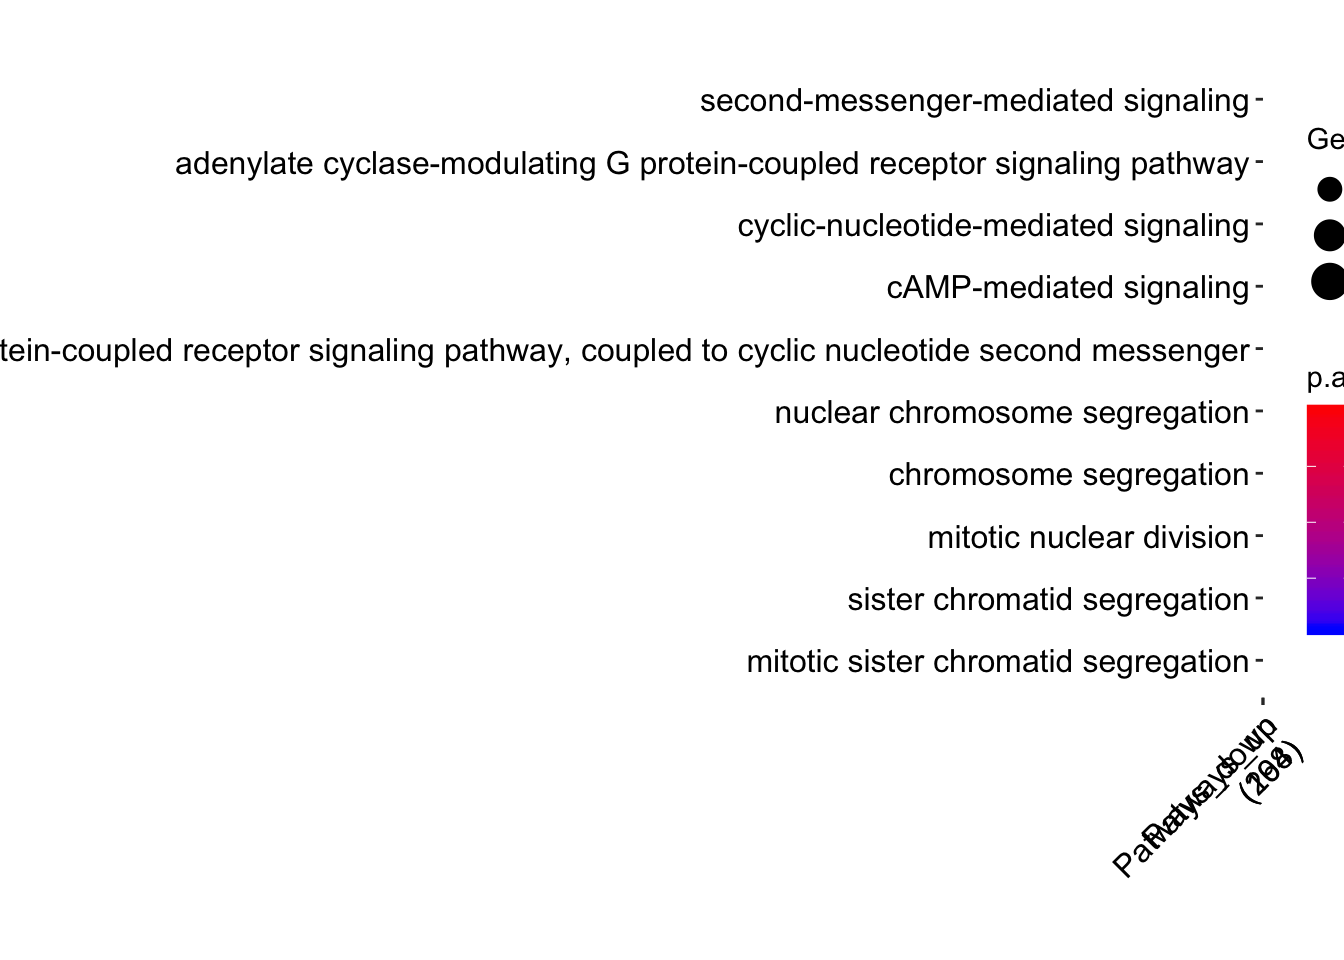
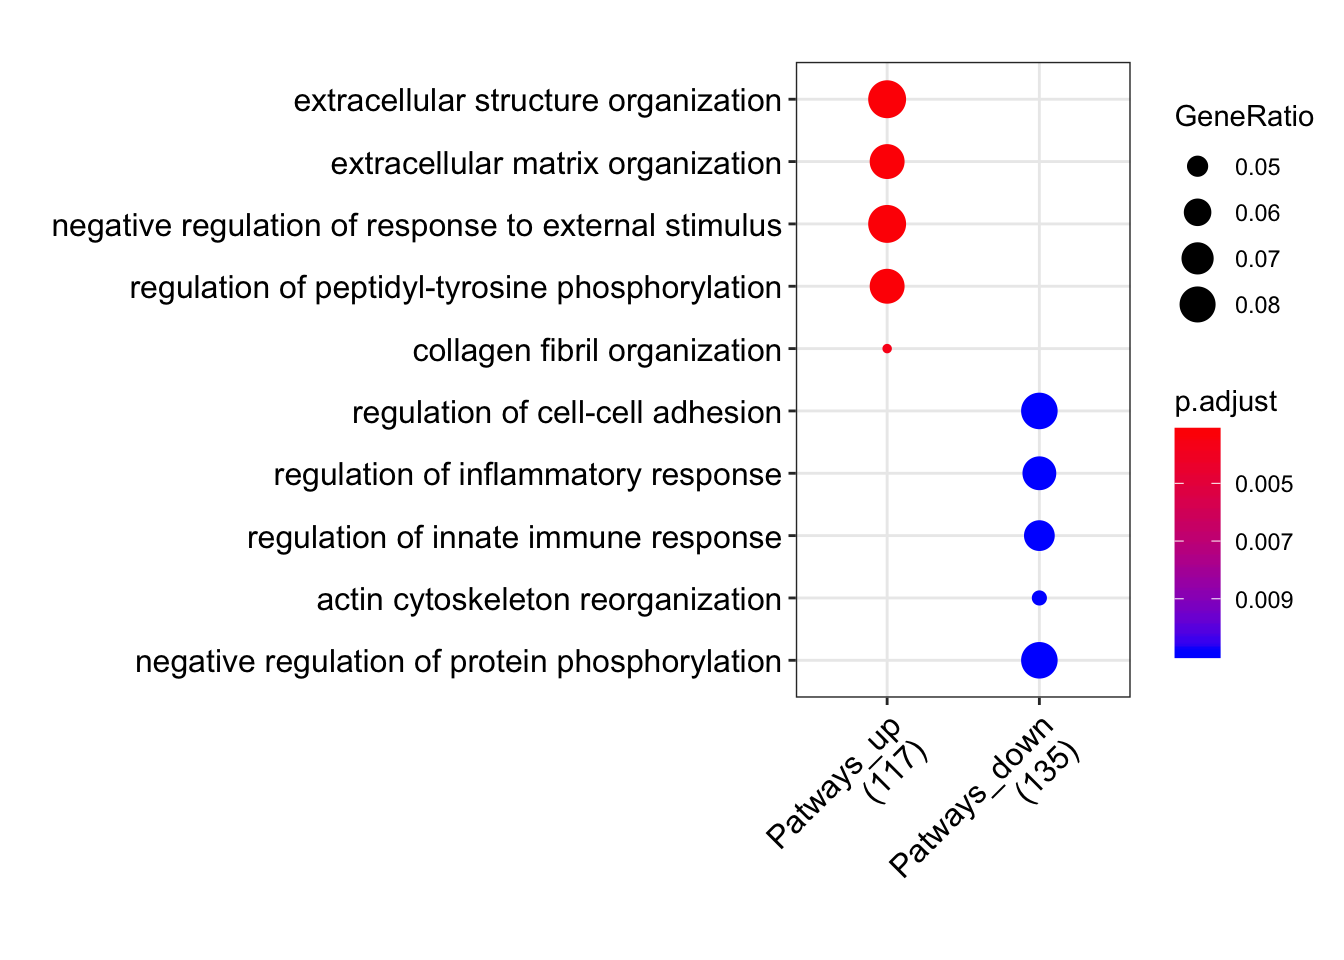
Updated rmd so all figures are readable

diff --git a/Bulk_pathway_analysis.html b/Bulk_pathway_analysis.html
@@ -381,8 +381,8 @@ div.tocify {
 <span class="kw">library</span>(org.Mm.eg.db)
 <span class="kw">library</span>(gplots)
 <span class="kw">library</span>(ggplot2)</code></pre></div>
-<div id="read-in-the-data-and-remove-sampels-that-were-irregular-according-to-correlation" class="section level2">
-<h2>Read in the data and remove sampels that were irregular according to correlation:</h2>
+<div id="read-in-the-data-and-remove-sampels-that-were-irregular-according-to-correlation" class="section level1">
+<h1>1 Read in the data and remove sampels that were irregular according to correlation:</h1>
 <div class="sourceCode"><pre class="sourceCode r"><code class="sourceCode r">counts &lt;-<span class="st"> </span><span class="kw">read.delim</span>(<span class="st">&quot;~/Documents/Lund/Vor2018_Haust2014/Data/count_results_3/entrenzID.final.matrix.txt&quot;</span>, <span class="dt">row.names =</span> <span class="dv">1</span>)
 counts &lt;-<span class="st"> </span>counts[<span class="kw">c</span>(<span class="dv">38</span><span class="op">:</span><span class="dv">44</span>,<span class="dv">21</span><span class="op">:</span><span class="dv">37</span>,<span class="dv">13</span><span class="op">:</span><span class="dv">20</span>,<span class="dv">1</span><span class="op">:</span><span class="dv">12</span>,<span class="dv">45</span><span class="op">:</span><span class="dv">48</span>)]
 counts &lt;-<span class="st"> </span>counts[<span class="op">-</span><span class="kw">c</span>(<span class="dv">4</span>, <span class="dv">6</span>,<span class="dv">10</span>,<span class="dv">14</span>,<span class="dv">18</span>,<span class="dv">22</span>,<span class="dv">34</span>,<span class="dv">37</span>,<span class="dv">39</span><span class="op">:</span><span class="dv">40</span>,<span class="dv">45</span>)]
@@ -398,9 +398,9 @@ sampleCondition &lt;-<span class="st"> </span><span class="kw">c</span>(<span cl
 </div>
 </div>
 <div id="filtering-lowly-expressed-genes" class="section level1">
-<h1>Filtering lowly expressed genes:</h1>
+<h1>2 Filtering lowly expressed genes:</h1>
 <div id="filter-vol-1" class="section level2">
-<h2>Filter vol 1:</h2>
+<h2>2.1 Filter vol 1:</h2>
 <p>Using genefilter package we filter out genes with row variance less or equal the 1</p>
 <div class="sourceCode"><pre class="sourceCode r"><code class="sourceCode r">rv &lt;-<span class="st"> </span><span class="kw">rowVars</span>(<span class="kw">as.matrix</span>(counts))
 counts &lt;-<span class="st"> </span>counts[rv <span class="op">&gt;=</span><span class="st"> </span><span class="dv">1</span>,]
@@ -408,7 +408,7 @@ counts &lt;-<span class="st"> </span>counts[rv <span class="op">&gt;=</span><spa
 <pre><code>## [1] 19370</code></pre>
 </div>
 <div id="filter-vol-2" class="section level2">
-<h2>Filter vol 2:</h2>
+<h2>2.2 Filter vol 2:</h2>
 <p>Filter out genes expressed in ….</p>
 <div class="sourceCode"><pre class="sourceCode r"><code class="sourceCode r">subset.test1 &lt;-<span class="st"> </span><span class="kw">c</span>()
 <span class="cf">for</span> (j <span class="cf">in</span> <span class="dv">1</span><span class="op">:</span><span class="kw">dim</span>(counts)[<span class="dv">1</span>]){
@@ -431,14 +431,14 @@ counts =<span class="st"> </span>counts[subset.test1,]
 </div>
 </div>
 <div id="edger" class="section level1">
-<h1>EdgeR</h1>
+<h1>3 EdgeR</h1>
 <p>Using EdgeR package to find differently expressed gene</p>
 <div class="sourceCode"><pre class="sourceCode r"><code class="sourceCode r">cds &lt;-<span class="st"> </span><span class="kw">DGEList</span>(<span class="dt">counts=</span>counts,<span class="dt">group=</span>sampleCondition)
 cds &lt;-<span class="kw">calcNormFactors</span>(cds)
 cds &lt;-<span class="st"> </span><span class="kw">estimateDisp</span>(cds)</code></pre></div>
 <pre><code>## Design matrix not provided. Switch to the classic mode.</code></pre>
 <div id="pairwise-comparsion" class="section level2 tabset">
-<h2>Pairwise comparsion</h2>
+<h2>3.1 Pairwise comparsion</h2>
 <div class="sourceCode"><pre class="sourceCode r"><code class="sourceCode r">exact_test &lt;-<span class="st"> </span><span class="cf">function</span>(x,y, pvalue, logFC) {
   test_control &lt;-<span class="st"> </span><span class="kw">exactTest</span>(cds, <span class="dt">pair=</span><span class="kw">c</span>(x,y))
   de_test_control &lt;-<span class="st"> </span>test_control<span class="op">$</span>table
@@ -488,7 +488,7 @@ cds &lt;-<span class="st"> </span><span class="kw">estimateDisp</span>(cds)</cod
 </div>
 </div>
 <div id="heatmap-of-de-genes" class="section level2 tabset">
-<h2>Heatmap of DE genes:</h2>
+<h2>3.2 Heatmap of DE genes:</h2>
 <div class="sourceCode"><pre class="sourceCode r"><code class="sourceCode r">cpm_counts_sig_mef_idc_upDown &lt;-<span class="st"> </span><span class="kw">cpm</span>(cds)
 counts_scaled_sig_mef_id_upDown &lt;-<span class="kw">t</span>(<span class="kw">scale</span>(<span class="kw">t</span>(cpm_counts_sig_mef_idc_upDown)))
 
@@ -541,9 +541,9 @@ plot_heatmaps &lt;-<span class="st"> </span><span class="cf">function</span>(x, 
 </div>
 </div>
 <div id="pathway-analysis" class="section level1">
-<h1>Pathway analysis</h1>
+<h1>4 Pathway analysis</h1>
 <div id="define-cluster" class="section level2 tabset">
-<h2>Define cluster</h2>
+<h2>4.1 Define cluster</h2>
 <div class="sourceCode"><pre class="sourceCode r"><code class="sourceCode r">define_cluster &lt;-<span class="st"> </span><span class="cf">function</span>(x, logFC, name) {
   cluster &lt;-<span class="st"> </span><span class="kw">list</span>()
   cluster<span class="op">$</span>Patways_up &lt;-<span class="st"> </span><span class="kw">rownames</span>(x[x<span class="op">$</span>logFC <span class="op">&gt;</span><span class="st"> </span>logFC, ])
@@ -609,7 +609,7 @@ plot_heatmaps &lt;-<span class="st"> </span><span class="cf">function</span>(x, 
 </div>
 </div>
 <div id="go-pathway-analysis-using-clusterprofiler" class="section level2 tabset">
-<h2>GO Pathway analysis Using clusterProfiler:</h2>
+<h2>4.2 GO Pathway analysis Using clusterProfiler:</h2>
 <div class="sourceCode"><pre class="sourceCode r"><code class="sourceCode r">pathway_analysis &lt;-<span class="st"> </span><span class="cf">function</span>(x, ont, name) {
   results &lt;-<span class="st"> </span><span class="kw">compareCluster</span>(<span class="dt">geneClusters =</span> x, <span class="dt">fun=</span><span class="st">&quot;enrichGO&quot;</span>, <span class="dt">OrgDb=</span><span class="st">&quot;org.Mm.eg.db&quot;</span>, <span class="dt">ont=</span>ont, <span class="dt">qvalueCutoff=</span><span class="fl">0.05</span>)
   <span class="kw">saveRDS</span>(results, <span class="dt">file=</span><span class="kw">paste0</span>(<span class="st">&quot;compareClusters/&quot;</span>, name, <span class="st">&quot;_&quot;</span>, ont, <span class="st">&quot;.Rdata&quot;</span>))
@@ -660,26 +660,26 @@ d5_mef_BP &lt;-<span class="st"> </span><span class="kw">readRDS</span>(<span cl
 <div class="sourceCode"><pre class="sourceCode r"><code class="sourceCode r"><span class="co">#d9_d5_BP &lt;- pathway_analysis(d9_d5_cluster, &quot;BP&quot;, name=&quot;d9_d5&quot;)</span>
 d9_d5_BP &lt;-<span class="st"> </span><span class="kw">readRDS</span>(<span class="st">&quot;compareClusters/d9_d5_BP.Rdata&quot;</span>)
 <span class="kw">dotplot</span>(d9_d5_BP, <span class="dt">showCategory=</span><span class="dv">5</span>) <span class="op">+</span><span class="st"> </span><span class="kw">theme</span>(<span class="dt">axis.text.x =</span> <span class="kw">element_text</span>(<span class="dt">angle =</span> <span class="dv">45</span>, <span class="dt">hjust =</span> <span class="dv">1</span>))</code></pre></div>
-<p><img src="Bulk_pathway_analysis_files/figure-html/unnamed-chunk-31-1.png" width="672" /></p>
+<p><img src="Bulk_pathway_analysis_files/figure-html/fig1-1.png" width="960" /></p>
 </div>
 <div id="day-15-vs-day-9-4" class="section level4">
 <h4>Day 15 vs day 9</h4>
 <div class="sourceCode"><pre class="sourceCode r"><code class="sourceCode r"><span class="co">#d15_d9_BP &lt;- pathway_analysis(d15_d9_cluster, &quot;BP&quot;, name=&quot;d15_d9&quot;)</span>
 d15_d9_BP &lt;-<span class="st"> </span><span class="kw">readRDS</span>(<span class="st">&quot;compareClusters/d15_d9_BP.Rdata&quot;</span>)
 <span class="kw">dotplot</span>(d15_d9_BP, <span class="dt">showCategory=</span><span class="dv">5</span>) <span class="op">+</span><span class="st"> </span><span class="kw">theme</span>(<span class="dt">axis.text.x =</span> <span class="kw">element_text</span>(<span class="dt">angle =</span> <span class="dv">45</span>, <span class="dt">hjust =</span> <span class="dv">1</span>))</code></pre></div>
-<p><img src="Bulk_pathway_analysis_files/figure-html/unnamed-chunk-32-1.png" width="672" /></p>
+<p><img src="Bulk_pathway_analysis_files/figure-html/unnamed-chunk-31-1.png" width="672" /></p>
 </div>
 <div id="day-9-vs-cdc1-4" class="section level4">
 <h4>Day 9 vs cDC1</h4>
 <div class="sourceCode"><pre class="sourceCode r"><code class="sourceCode r"><span class="co">#d9_cDC1_BP &lt;- pathway_analysis(d9_cDC1_cluster, &quot;BP&quot;, name=&quot;d9_cDC1&quot;)</span>
 d9_cDC1_BP &lt;-<span class="st"> </span><span class="kw">readRDS</span>(<span class="st">&quot;compareClusters/d9_cDC1_BP.Rdata&quot;</span>)
 <span class="kw">dotplot</span>(d9_cDC1_BP, <span class="dt">showCategory=</span><span class="dv">5</span>) <span class="op">+</span><span class="st"> </span><span class="kw">theme</span>(<span class="dt">axis.text.x =</span> <span class="kw">element_text</span>(<span class="dt">angle =</span> <span class="dv">45</span>, <span class="dt">hjust =</span> <span class="dv">1</span>))</code></pre></div>
-<p><img src="Bulk_pathway_analysis_files/figure-html/unnamed-chunk-33-1.png" width="672" /></p>
+<p><img src="Bulk_pathway_analysis_files/figure-html/unnamed-chunk-32-1.png" width="672" /></p>
 </div>
 </div>
 </div>
 <div id="kegg-pathway-analysis-using-clusterprofiler" class="section level2 tabset">
-<h2>KEGG Pathway analysis Using clusterProfiler:</h2>
+<h2>4.3 KEGG Pathway analysis Using clusterProfiler:</h2>
 <div class="sourceCode"><pre class="sourceCode r"><code class="sourceCode r">KEGG_pathway_analysis &lt;-<span class="st"> </span><span class="cf">function</span>(x, name) {
   results &lt;-<span class="st"> </span><span class="kw">compareCluster</span>(<span class="dt">geneClusters =</span> x, <span class="dt">fun=</span><span class="st">&quot;enrichKEGG&quot;</span>, <span class="dt">organism=</span><span class="st">&quot;mmu&quot;</span>, <span class="dt">keyType=</span><span class="st">&quot;kegg&quot;</span>, <span class="dt">qvalueCutoff=</span><span class="fl">0.05</span>)
   <span class="kw">saveRDS</span>(results, <span class="dt">file=</span><span class="kw">paste0</span>(<span class="st">&quot;compareClusters/&quot;</span>, name, <span class="st">&quot;_&quot;</span>, <span class="st">&quot;KEGG.Rdata&quot;</span>))
@@ -690,14 +690,14 @@ d9_cDC1_BP &lt;-<span class="st"> </span><span class="kw">readRDS</span>(<span c
 <div class="sourceCode"><pre class="sourceCode r"><code class="sourceCode r"><span class="co">#d5_mef_KEGG &lt;- KEGG_pathway_analysis(d5_mef_cluster, name=&quot;d5_mef&quot;)</span>
 d5_mef_KEGG &lt;-<span class="st"> </span><span class="kw">readRDS</span>(<span class="st">&quot;compareClusters/d5_mef_KEGG.Rdata&quot;</span>)
 <span class="kw">dotplot</span>(d5_mef_KEGG, <span class="dt">showCategory=</span><span class="dv">5</span>) <span class="op">+</span><span class="st"> </span><span class="kw">theme</span>(<span class="dt">axis.text.x =</span> <span class="kw">element_text</span>(<span class="dt">angle =</span> <span class="dv">45</span>, <span class="dt">hjust =</span> <span class="dv">1</span>))</code></pre></div>
-<p><img src="Bulk_pathway_analysis_files/figure-html/unnamed-chunk-35-1.png" width="672" /></p>
+<p><img src="Bulk_pathway_analysis_files/figure-html/unnamed-chunk-34-1.png" width="672" /></p>
 </div>
 <div id="day-9-vs-day-5-5" class="section level3">
 <h3>Day 9 vs day 5</h3>
 <div class="sourceCode"><pre class="sourceCode r"><code class="sourceCode r"><span class="co">#d9_d5_KEGG &lt;- KEGG_pathway_analysis(d9_d5_cluster, name=&quot;d9_d5&quot;)</span>
 d9_d5_KEGG &lt;-<span class="st"> </span><span class="kw">readRDS</span>(<span class="st">&quot;compareClusters/d9_d5_KEGG.Rdata&quot;</span>)
 <span class="kw">dotplot</span>(d9_d5_KEGG, <span class="dt">showCategory=</span><span class="dv">5</span>) <span class="op">+</span><span class="st"> </span><span class="kw">theme</span>(<span class="dt">axis.text.x =</span> <span class="kw">element_text</span>(<span class="dt">angle =</span> <span class="dv">45</span>, <span class="dt">hjust =</span> <span class="dv">1</span>))</code></pre></div>
-<p><img src="Bulk_pathway_analysis_files/figure-html/unnamed-chunk-36-1.png" width="672" /></p>
+<p><img src="Bulk_pathway_analysis_files/figure-html/unnamed-chunk-35-1.png" width="672" /></p>
 </div>
 <div id="day-15-vs-day-9-5" class="section level3">
 <h3>Day 15 vs day 9</h3>
@@ -709,7 +709,7 @@ d9_d5_KEGG &lt;-<span class="st"> </span><span class="kw">readRDS</span>(<span c
 <h3>Day 9 vs cDC1</h3>
 <div class="sourceCode"><pre class="sourceCode r"><code class="sourceCode r">d9_cDC1_KEGG &lt;-<span class="st"> </span><span class="kw">KEGG_pathway_analysis</span>(d9_cDC1_cluster, <span class="dt">name=</span><span class="st">&quot;d9_cDC1&quot;</span>)
 <span class="kw">dotplot</span>(d9_cDC1_KEGG, <span class="dt">showCategory=</span><span class="dv">5</span>) <span class="op">+</span><span class="st"> </span><span class="kw">theme</span>(<span class="dt">axis.text.x =</span> <span class="kw">element_text</span>(<span class="dt">angle =</span> <span class="dv">45</span>, <span class="dt">hjust =</span> <span class="dv">1</span>))</code></pre></div>
-<p><img src="Bulk_pathway_analysis_files/figure-html/unnamed-chunk-38-1.png" width="672" /></p>
+<p><img src="Bulk_pathway_analysis_files/figure-html/unnamed-chunk-37-1.png" width="672" /></p>
 </div>
 </div>
 </div>
